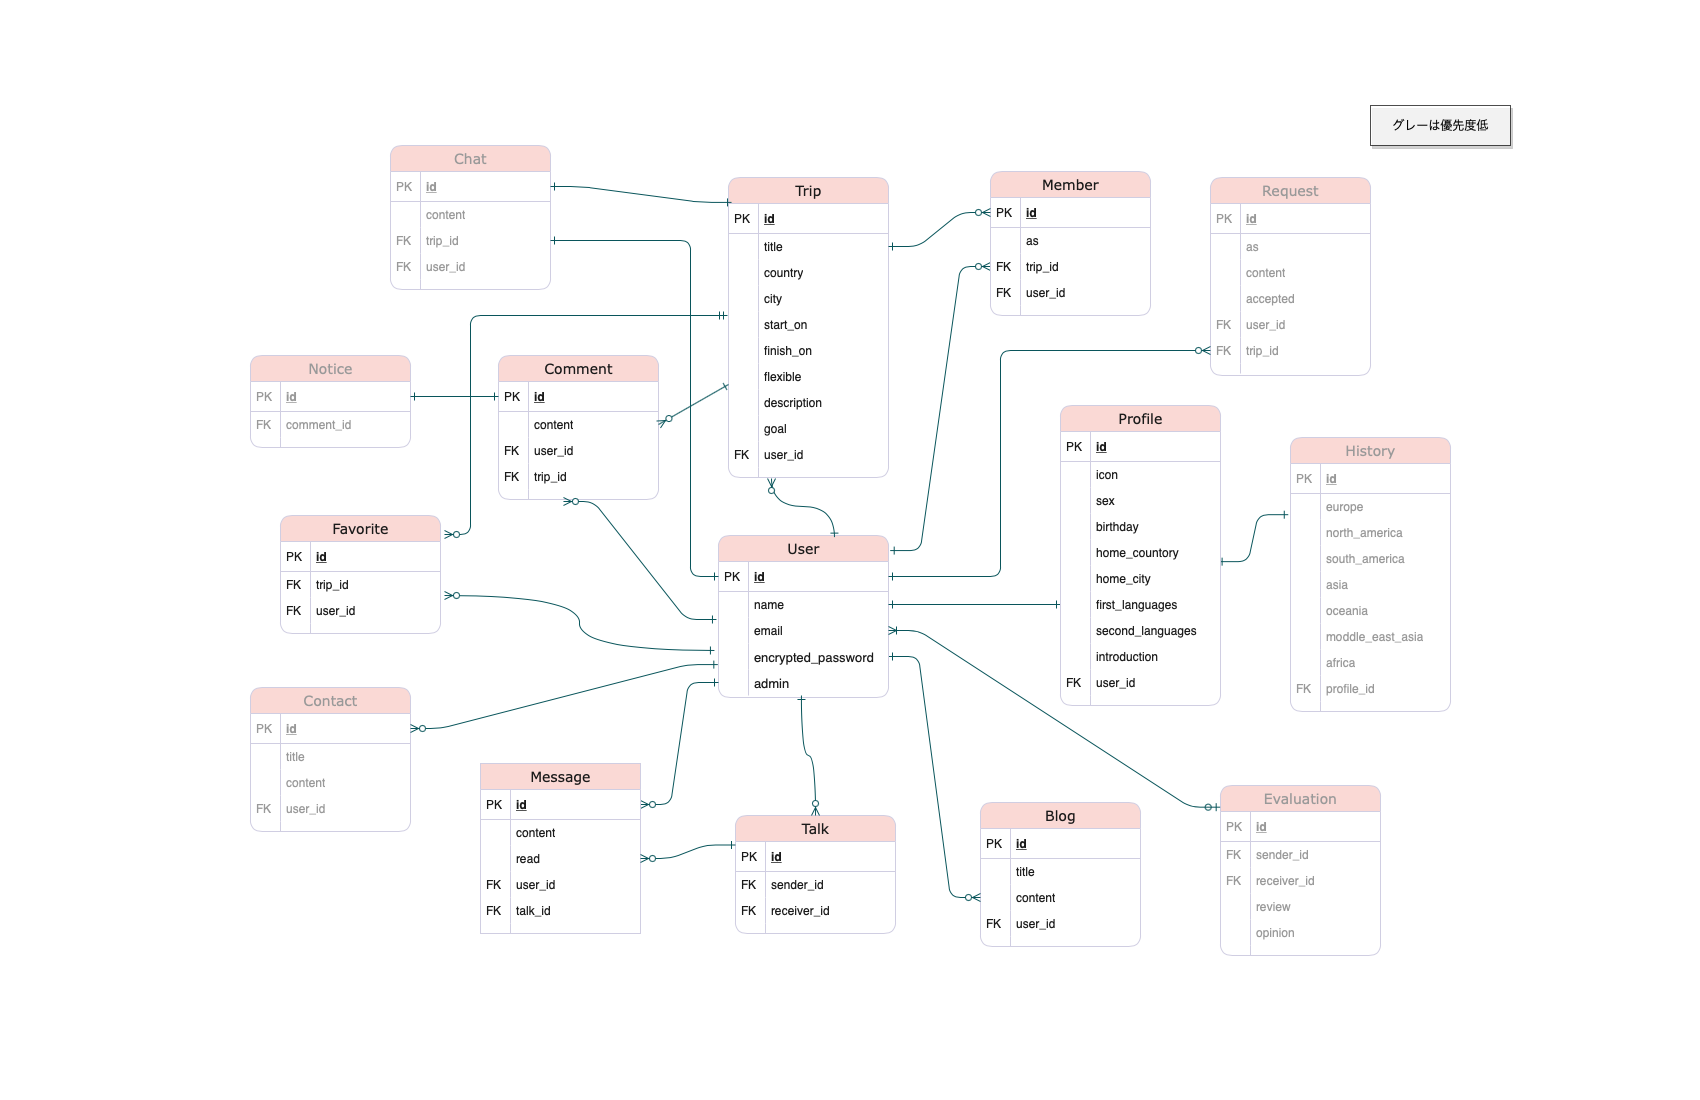
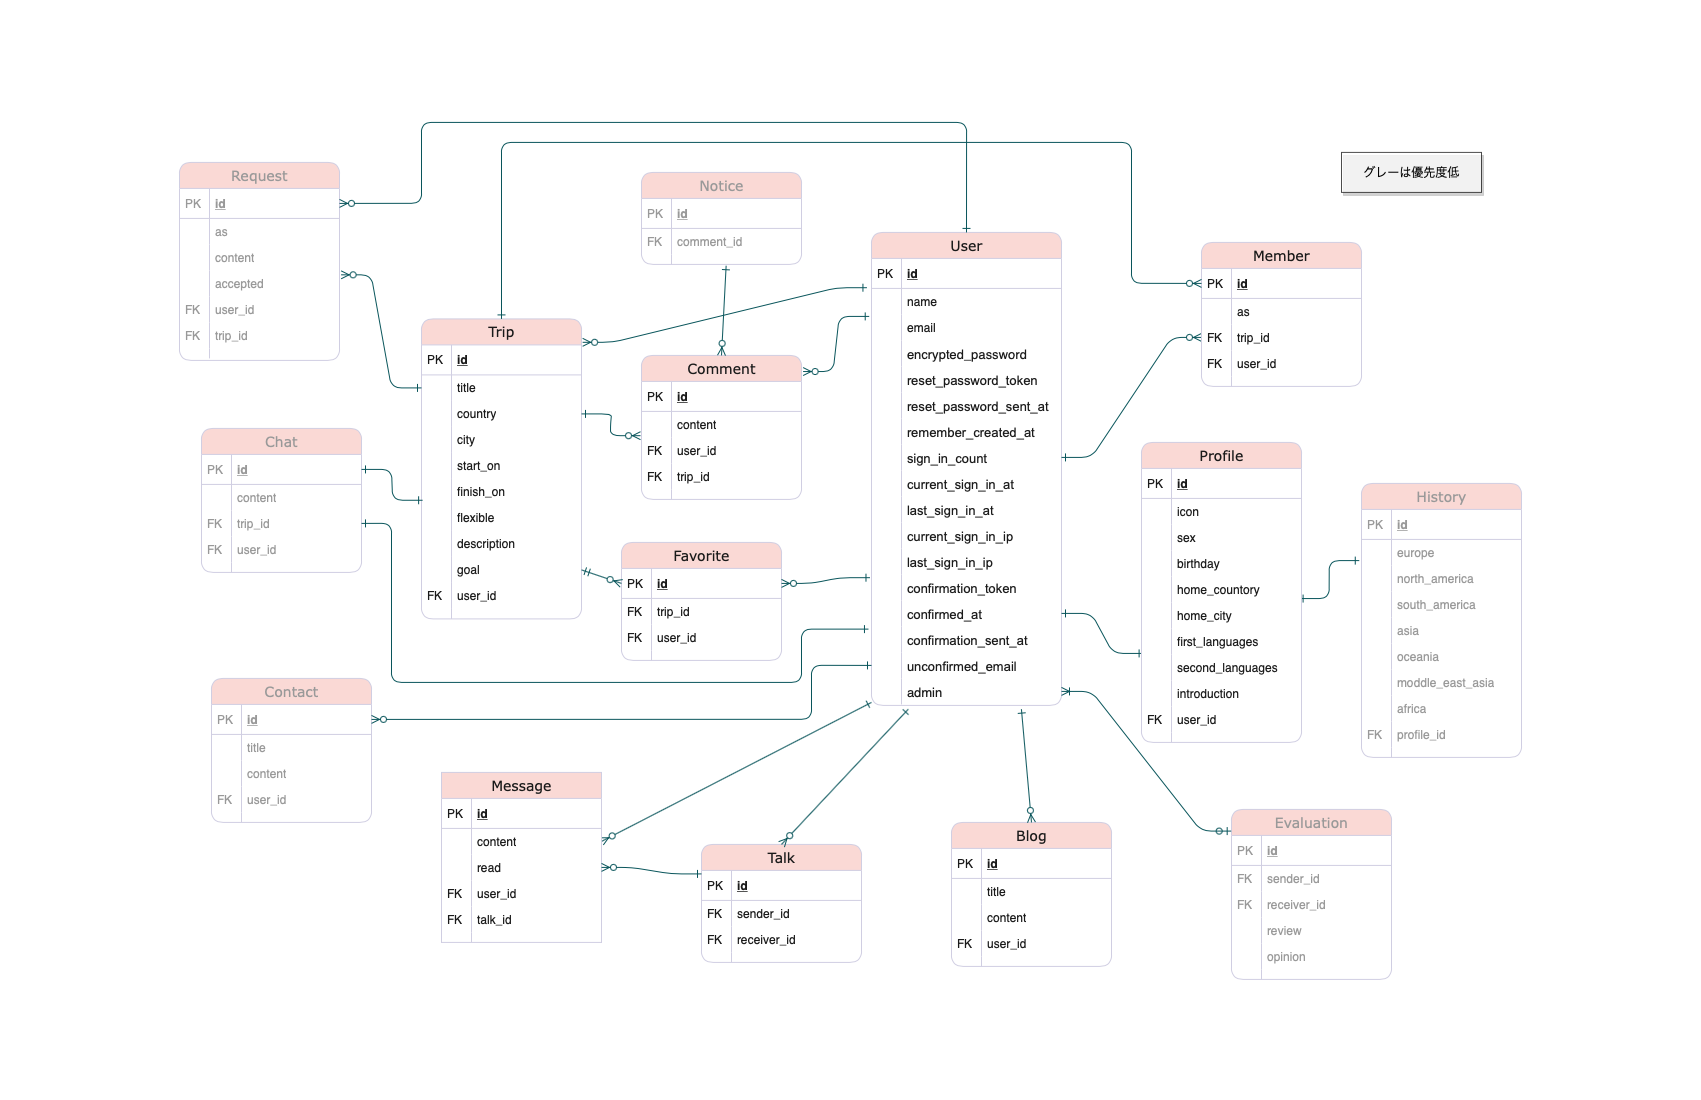
add divise default column

diff --git a/README.md b/README.md
@@ -67,7 +67,4 @@ $ rails s
 
 ### ワイヤーフレーム / Wire Frame
 使用ソフト: Adobe Illustrator
-- [元ファイル(wire_frame.ai)](https://github.com/MoekaKitamura/Original_app/blob/master/docs/wire_frame.ai)
-  Download → Illustrator もしくは、Adobe Acrobat Reader DCで確認
-- [Adobe Creative Cloud](https://shared-assets.adobe.com/link/ea5c967c-ed7b-40ef-40ae-1b8aee92661b)
 ![image](https://github.com/MoekaKitamura/Original_app/blob/master/docs/wire_frame.png)
